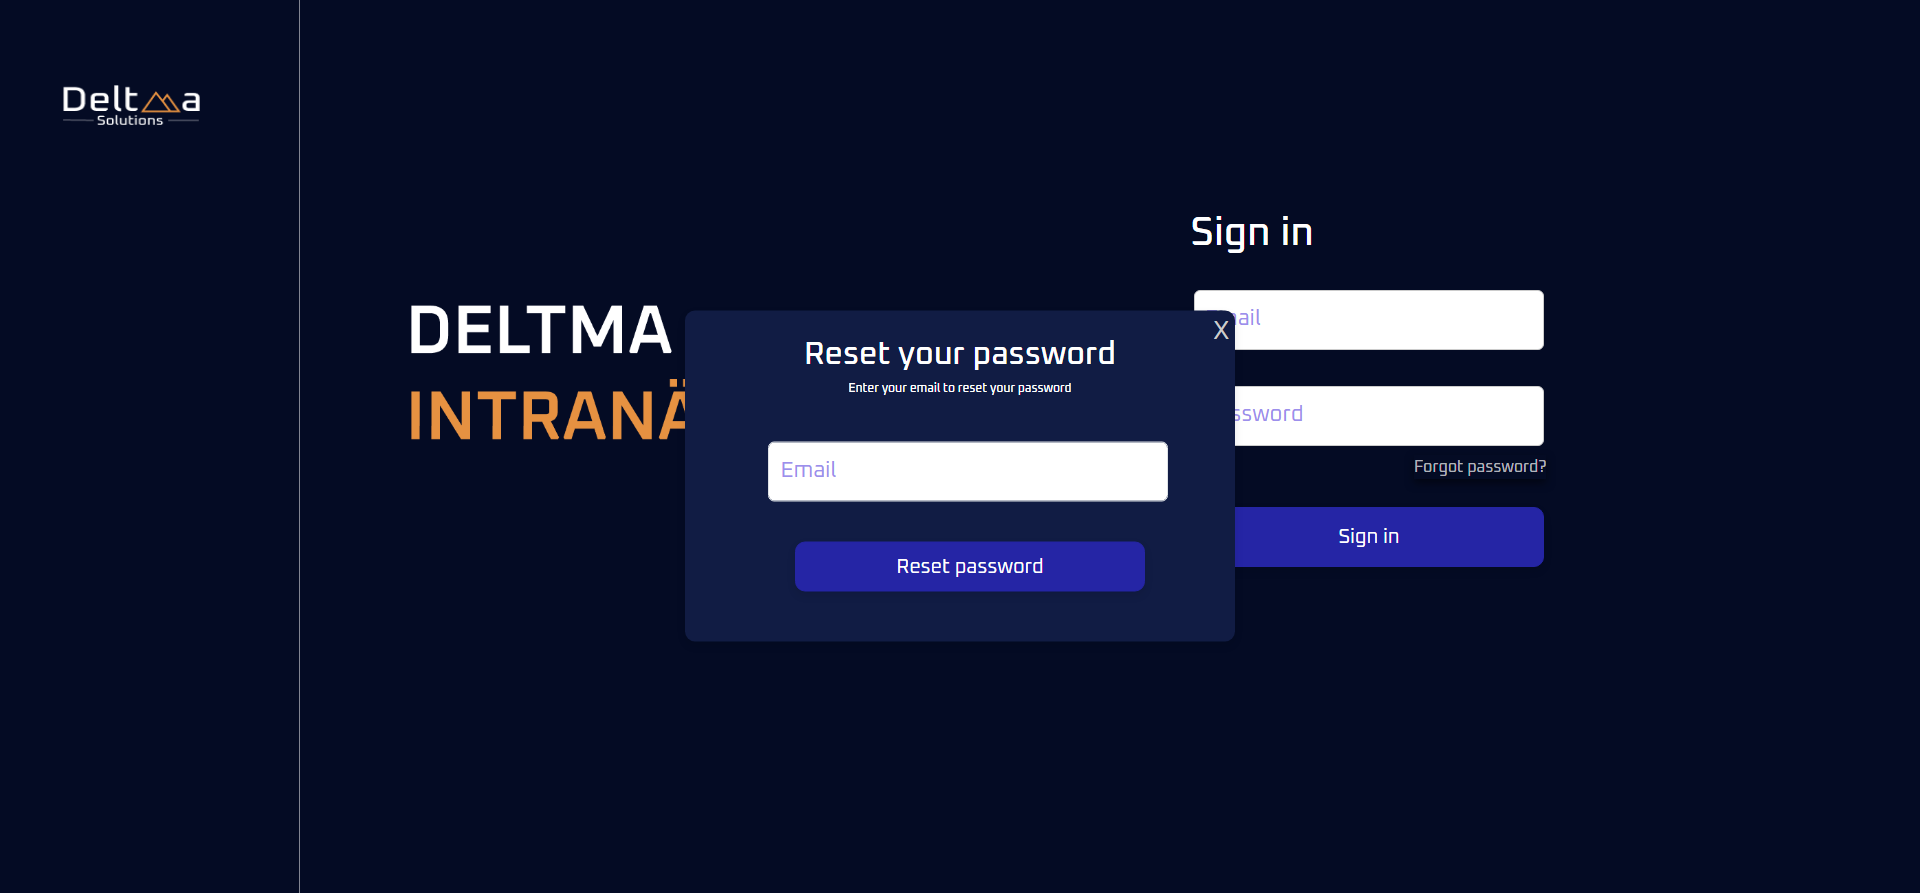
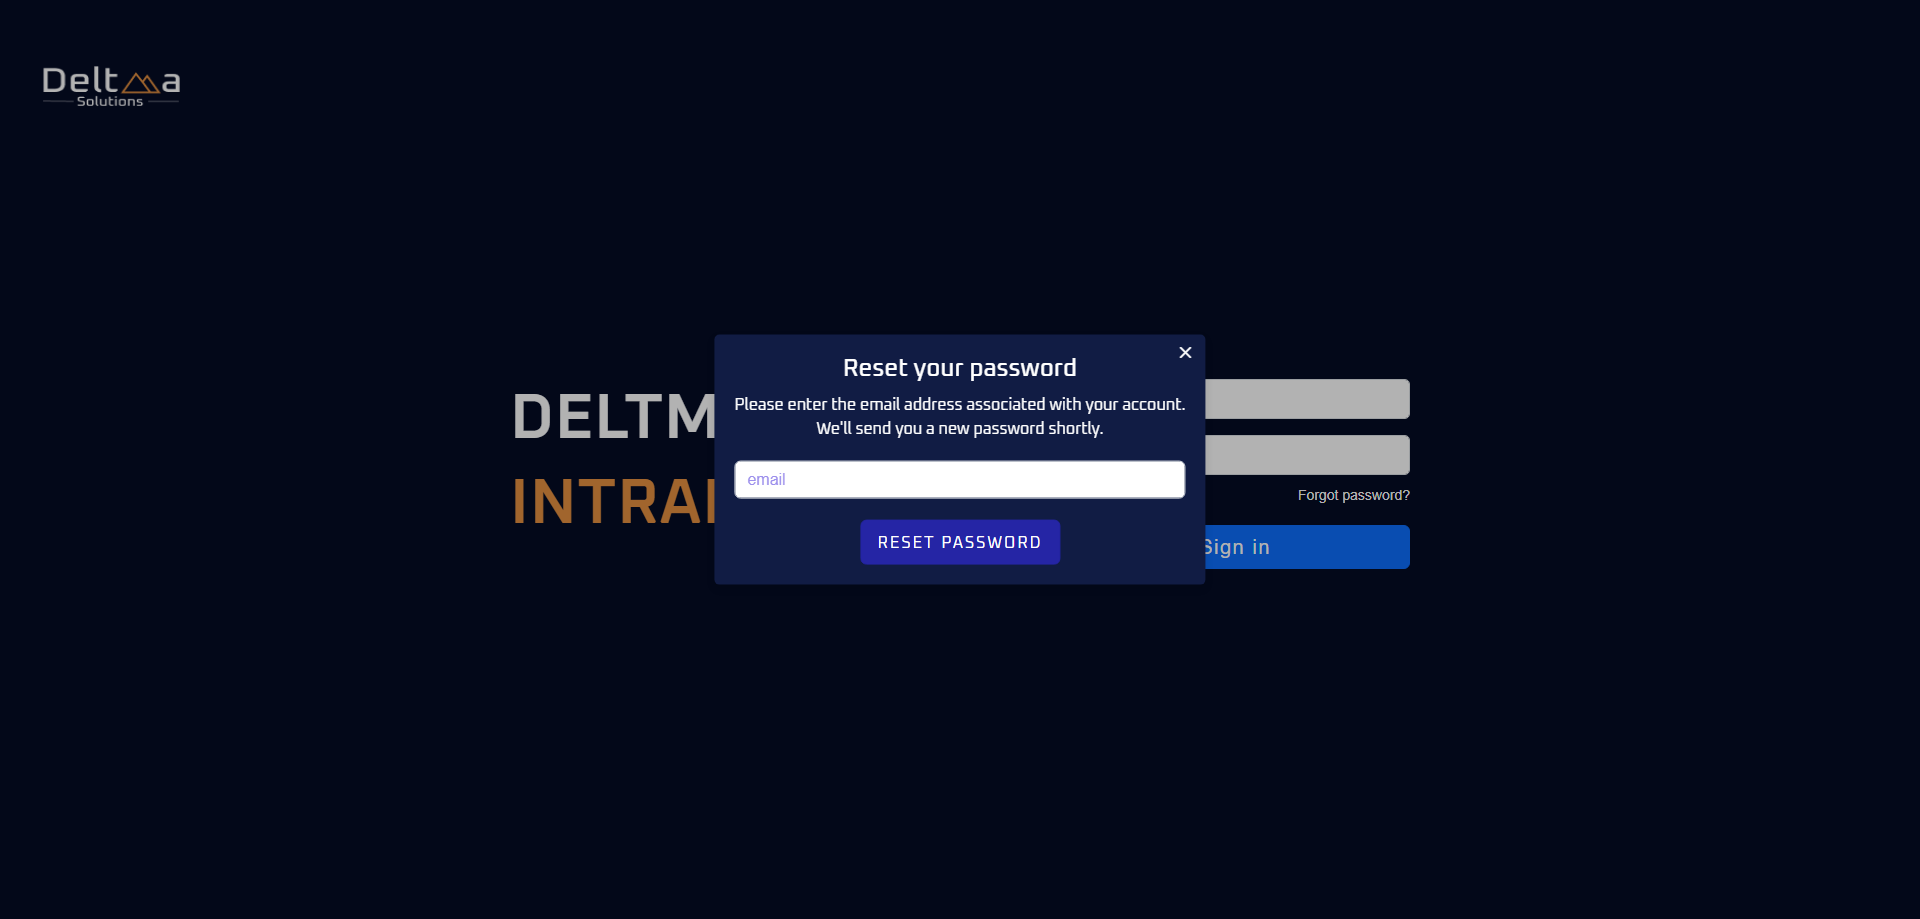
Added intranet project to "My Projects" section

Changed region(s): [[0.1875, 0.2419, 0.8125, 0.7256], [0.0312, 0.0605, 0.125, 0.1512]]

diff --git a/src/views/LandingPage.vue b/src/views/LandingPage.vue
@@ -16,7 +16,7 @@
 			development, and web development.
 			Skilled in Java, JavaScript, and proficient in utilizing a diverse array of frameworks and tools.
 			I thrive in environments that encourage creativity, collaboration, and continuous learning.
-			With an eagerness to learn, I'm constantly looking for oppurtunities to deepen my existing knowledge as well
+			With an eagerness to learn, I'm constantly looking for opportunities to deepen my existing knowledge as well
 			as broaden my skill set.
 		</div>
 	</div>
@@ -37,10 +37,11 @@
 		<div class="projects">
 			<div class="project-image" :class="{ 'expanded': isImageExpanded }">
 				<img :src="currentImage" alt="project-image" @click="toggleImageSize">
-				<div class="navigation-buttons" v-if="isImageExpanded">
-					<button @click="showLogin">Previous</button>
-					<button @click="showForgotPassword">Next</button>
-				</div>
+			</div>
+			<!-- Navigation buttons container outside the project image -->
+			<div class="navigation-buttons" :class="{ 'visible': isImageExpanded }">
+				<button class="button" @click="navigate('previous')">Previous</button>
+				<button class="button" @click="navigate('next')">Next</button>
 			</div>
 		</div>
 	</div>
@@ -50,21 +51,55 @@
 export default {
 	data() {
 		return {
-			loginImage: require('@/assets/login.png'),
-			forgotPasswordImage: require('@/assets/forgotPassword.png'),
-			currentImage: '',
+			images: [
+				require('@/assets/login.png'),
+				require('@/assets/forgotPassword.png'),
+				require('@/assets/receivedPassword.png'),
+				require('@/assets/homepageUser.png'),
+				require('@/assets/adminpage.png'),
+				require('@/assets/adminpageInviteUsers.png'),
+				require('@/assets/receivedInvitation.png'),
+				require('@/assets/signuppage.png'),
+				require('@/assets/adminpageCreateNews.png'),
+				require('@/assets/adminpageCreatedNews.png'),
+				require('@/assets/adminpageLatestNews.png'),
+				require('@/assets/adminpageOldestNews.png'),
+				require('@/assets/adminpageSearchNews1.png'),
+				require('@/assets/adminpageSearchNews2.png'),
+				require('@/assets/adminpageEditNews.png'),
+				require('@/assets/adminpageEditedNews.png'),
+				require('@/assets/adminpageSelectedNews.png'),
+				require('@/assets/adminpageNewsNavigate1.png'),
+				require('@/assets/adminpageNewsNavigate2.png'),
+				require('@/assets/receivedSharedNews.png'),
+				require('@/assets/adminpageEditUser.png'),
+				require('@/assets/adminpageEditUserPopup1.png'),
+				require('@/assets/adminpageEditUserPopup2.png'),
+				require('@/assets/adminpageEditedUser.png'),
+				require('@/assets/adminpageCreateProject.png'),
+				require('@/assets/adminpageEditProject.png'),
+				require('@/assets/homepageAdminRegisterHours.png'),
+				require('@/assets/profilePage.png'),
+				require('@/assets/colleaguesPage.png'),
+
+			],
+			currentImageIndex: 0,
 			isImageExpanded: false,
 		};
 	},
-	created() {
-		this.currentImage = this.loginImage;
+	computed: {
+		currentImage() {
+			return this.images[this.currentImageIndex];
+		}
 	},
 	methods: {
-		showLogin() {
-			this.currentImage = this.loginImage;
-		},
-		showForgotPassword() {
-			this.currentImage = this.forgotPasswordImage;
+		navigate(direction) {
+			if (!this.isImageExpanded) return;
+			if (direction === 'previous') {
+				this.currentImageIndex = (this.currentImageIndex - 1 + this.images.length) % this.images.length;
+			} else if (direction === 'next') {
+				this.currentImageIndex = (this.currentImageIndex + 1) % this.images.length;
+			}
 		},
 		toggleImageSize() {
 			this.isImageExpanded = !this.isImageExpanded;
@@ -72,7 +107,6 @@ export default {
 	},
 };
 </script>
-
 <style>
 .header-container {
 	position: relative;
@@ -82,7 +116,6 @@ export default {
 	text-align: center;
 	margin-top: 20vh;
 	margin-left: 70vh;
-
 }
 
 .header-role {
@@ -95,7 +128,6 @@ export default {
 	text-transform: uppercase;
 	letter-spacing: 10px;
 	padding-bottom: 15px;
-
 }
 
 .profile-picture {
@@ -108,7 +140,6 @@ export default {
 	max-width: 200px;
 	border: 2px solid var(--orange);
 	border-radius: 50%;
-	/* transform: scaleX(-1); */
 }
 
 .welcome-text-container {
@@ -193,17 +224,47 @@ export default {
 }
 
 .project-image {
+	position: relative;
+	display: flex;
+	justify-content: center;
+	align-items: center;
 	transition: transform 0.5s;
+	cursor: pointer;
 }
 
 .project-image.expanded {
-	transform: scale(2);
+	transform: scale(3);
+	margin-left: 5%;
 }
 
 .navigation-buttons {
 	position: absolute;
-	bottom: 15px;
-	left: 55%;
+	bottom: -70%;
+	left: 35%;
+	transform: translateX(-50%);
 	z-index: 1;
+	opacity: 0;
+	transition: opacity 0.8s ease-in-out;
+}
+
+.navigation-buttons.visible {
+	opacity: 1;
+}
+
+.navigation-buttons .button {
+	font-size: 25px;
+	font-family: 'Oxanium', sans-serif;
+	color: var(--white);
+	background-color: var(--light-blue);
+	border: none;
+	border-radius: 5px;
+	padding: 10px 40px;
+	margin-right: 20px;
+	cursor: pointer;
+	transition: background-color 0.3s ease;
+}
+
+.navigation-buttons .button:hover {
+	background-color: var(--light-blue-hover);
 }
 </style>
